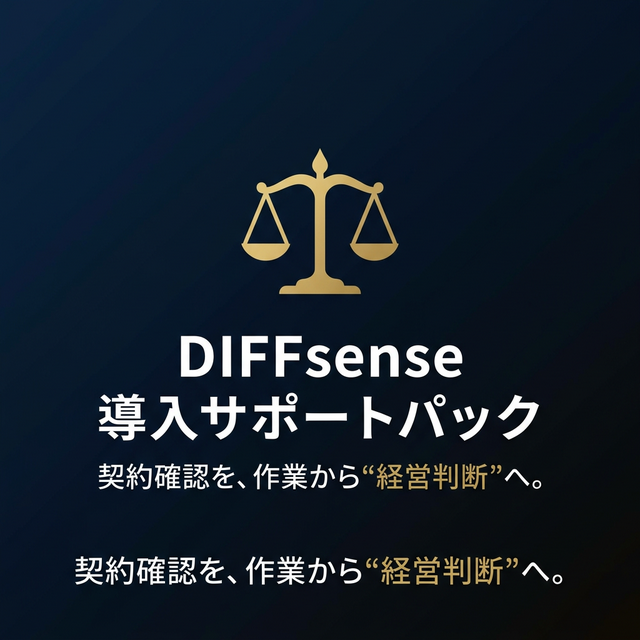
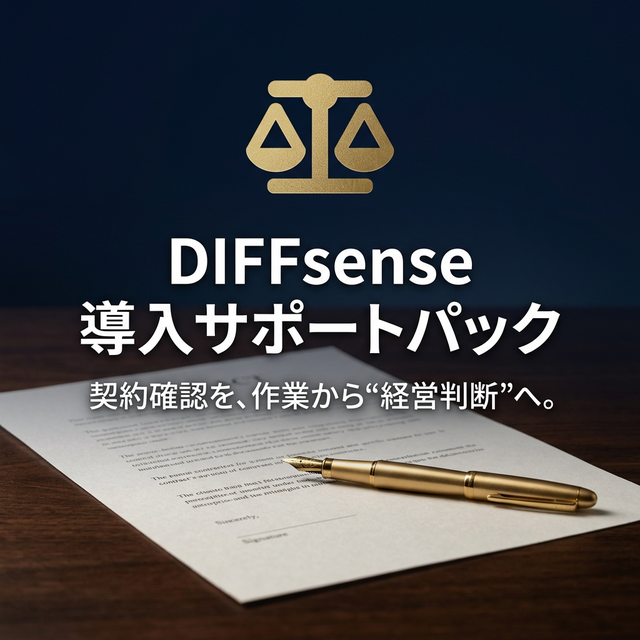
feat: unify service name to 'DIFFsense 導入サポートパック' and update OGP image

diff --git a/onboarding.html b/onboarding.html
@@ -4,10 +4,10 @@
 <head>
   <meta charset="UTF-8">
   <meta name="viewport" content="width=device-width, initial-scale=1.0">
-  <title>DIFFsense | 導入支援付きオンボーディングプラン（法人向け）</title>
+  <title>DIFFsense 導入サポートパック</title>
   <meta name="description" content="契約確認業務を仕組み化する、法人向け導入支援プラン。10万円で実務定着まで伴走します。">
   <!-- OGP -->
-  <meta property="og:title" content="DIFFsense | 導入支援付きオンボーディングプラン（法人向け）">
+  <meta property="og:title" content="DIFFsense 導入サポートパック">
   <meta property="og:description" content="契約確認業務を仕組み化する、法人向け導入支援プラン。10万円で実務定着まで伴走します。">
   <meta property="og:image" content="https://diffsense.spacegleam.co.jp/images/onboarding_ogp.png">
   <meta property="og:url" content="https://diffsense.spacegleam.co.jp/onboarding">
@@ -1733,7 +1733,7 @@
       <div class="wrap">
         <div class="pricing-inner">
           <span class="eyebrow pricing-eyebrow">Pricing</span>
-          <h2 class="pricing-heading">導入支援付きオンボーディングプラン</h2>
+          <h2 class="pricing-heading">導入サポートパック</h2>
           <p class="pricing-sub">業務設計から実務定着まで、一貫してサポートします。</p>
           <div class="price-badge">5社限定　先着受付中</div>
           <p class="price-num">¥100,000</p>
